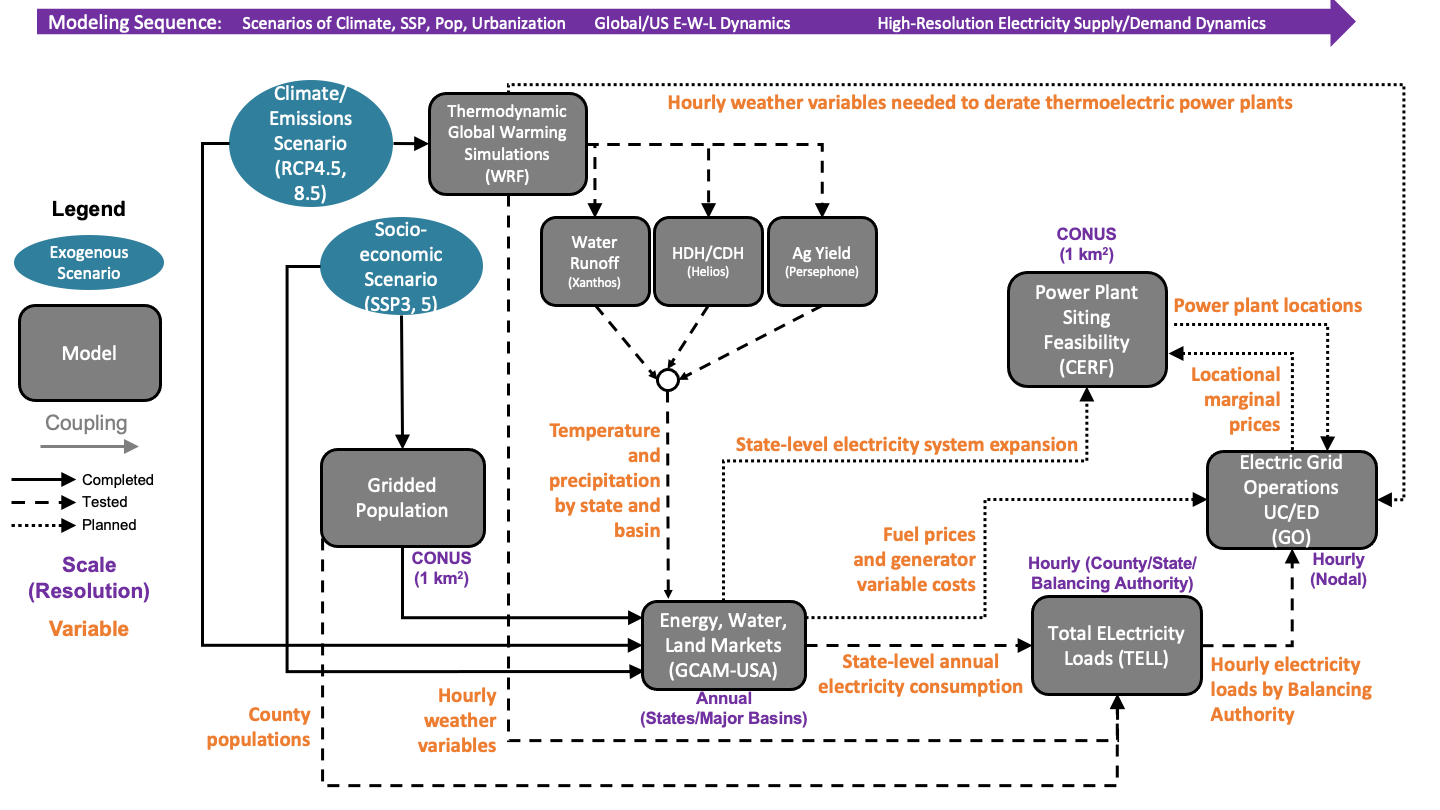
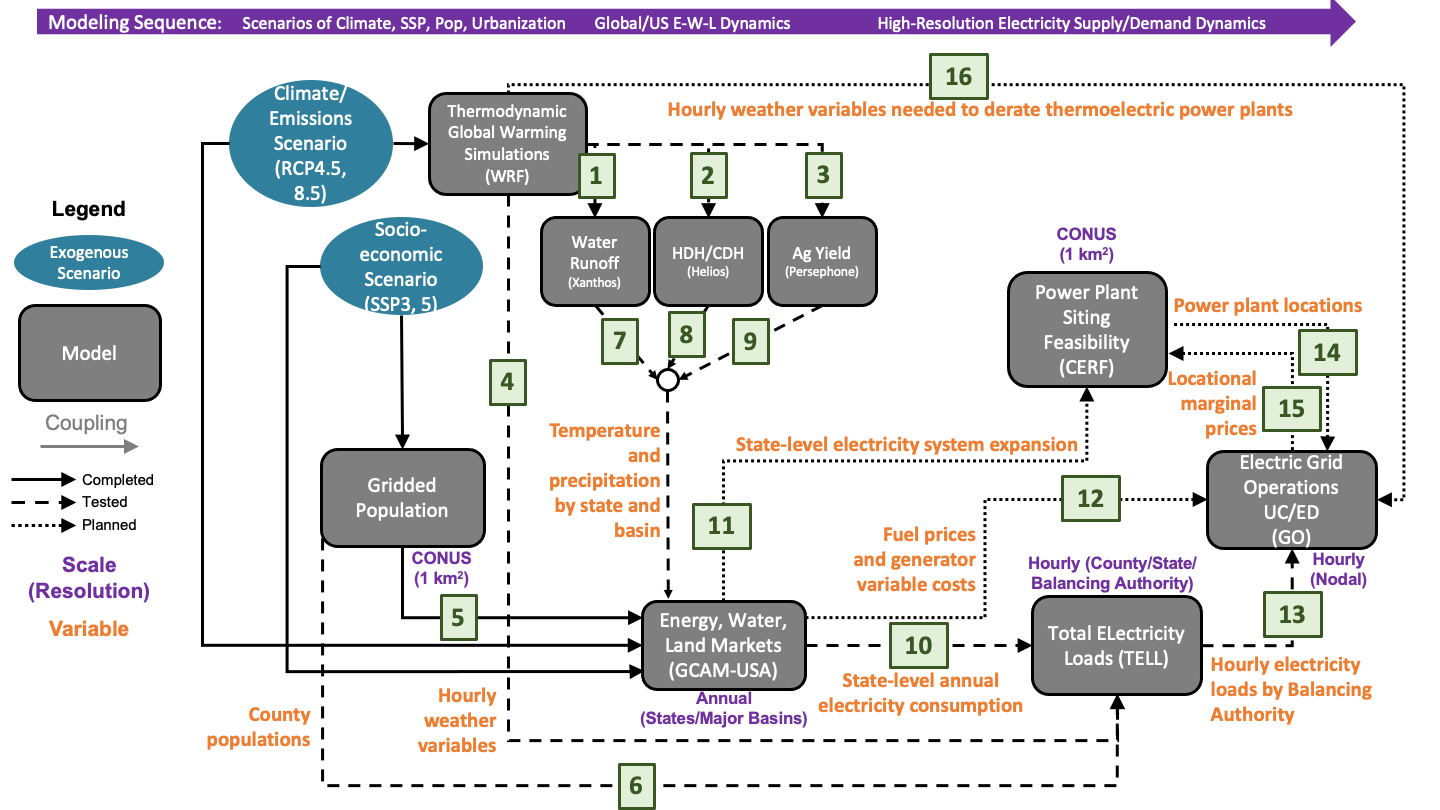
Labelled wiring diagram

diff --git a/README.md b/README.md
@@ -60,3 +60,4 @@ about the forcing data are provided in the table below.
 | 13 | tell_to_go | TBD | /pic/projects/im3/exp_group_b_test/output_data/tell/sample_output | TBD |
 | 14 | cerf_to_go | TBD | TBD | TBD |
 | 15 | go_to_cerf | TBD | TBD | TBD |
+| 16 | wrf_to_go | TBD | TBD | TBD |
